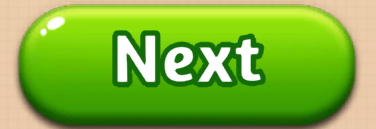
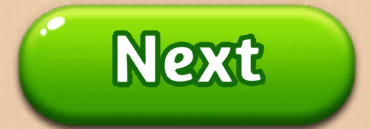
Added feature to have a controlled and accurate transition to the next level.

Changed region(s): [[0.2965, 0.2171, 0.7412, 0.6822], [0.8005, 0.031, 0.9784, 1.0], [0.0889, 0.124, 0.1779, 0.2791]]

diff --git a/word-cookies.py b/word-cookies.py
@@ -20,37 +20,39 @@ def main():
     print("Loading Assets...")
     templates = loadTemplates(letters)
     Dictionary = loadTexts(letters)
+    nextButton = cv2.imread('Assets/Next.png', 0)
     print("Elapsed time: ", time.time() - start_time, " seconds")
 
-    n = 0
-    while n < 5:
-        time.sleep(2)
-        start_time = time.time()
-        print("Grabbing Cookie Pan...")
-        cookiePan = loadCookiePan()
-        print("Elapsed time: ", time.time() - start_time, " seconds")
+    start_time = time.time()
+    print("Grabbing Cookie Pan...")
+    cookiePan = loadCookiePan()
+    print("Elapsed time: ", time.time() - start_time, " seconds")
 
-        start_time = time.time()
-        print("Finding Letters...")
-        lettersDict = findLetters(templates, letters, cookiePan, 0.8)
-        for letter, data in lettersDict.items():
-            print("{}: Vals: {}, Coords: {}".format(letter, data[0], data[1]))
-        print("Elapsed time: ", time.time() - start_time, " seconds")
+    start_time = time.time()
+    print("Finding Letters...")
+    lettersDict = findLetters(templates, letters, cookiePan, 0.8)
+    for letter, data in lettersDict.items():
+        print("{}: Vals: {}, Coords: {}".format(letter, data[0], data[1]))
+    print("Elapsed time: ", time.time() - start_time, " seconds")
 
-        start_time = time.time()
-        print("Finding Words...")
-        wordsFound = findWords(lettersDict, Dictionary)
-        print(wordsFound)
-        print("Elapsed time: ", time.time() - start_time, " seconds")
+    start_time = time.time()
+    print("Finding Words...")
+    wordsFound = findWords(lettersDict, Dictionary)
+    print(wordsFound)
+    print("Elapsed time: ", time.time() - start_time, " seconds")
 
-        start_time = time.time()
-        print("Drawing Words...")
-        drawWords(wordsFound, lettersDict)
-        print("Elapsed time: ", time.time() - start_time, " seconds")
-        
-        time.sleep(8)
-        pyautogui.click(720,1000)
+    start_time = time.time()
+    print("Drawing Known Words...")
+    drawWords(wordsFound, lettersDict)
+    print("Elapsed time: ", time.time() - start_time, " seconds")
 
+    start_time = time.time()
+    print("Waiting for End Screen...")
+    while nextRound(nextButton) == False:
+        time.sleep(0.1)
+    print("Elapsed time: ", time.time() - start_time, " seconds")
+
+    
 
 def loadCookiePan():
     # Grab a screenshot of the word-cookies screen.
@@ -252,6 +254,25 @@ def drawWords(words, lettersDictionary):
         pyautogui.mouseUp()
         time.sleep(0.1)
 
+
+def nextRound(nextButtonTemplate):
+    ended = False
+    height, width = nextButtonTemplate.shape
+    screen = ImageGrab.grab(bbox=(x1,y1,x2,y2))
+    screen.save('Assets/Next-Menu.png')
+
+    screenImg = cv2.imread('Assets/Next-Menu.png', 0)
+    result = cv2.matchTemplate(screenImg, nextButtonTemplate, cv2.TM_CCOEFF_NORMED)
+    _, max_val, _, max_loc = cv2.minMaxLoc(result)
+    max_loc = (max_loc[0] + width/2, max_loc[1] + height/2)
+
+    thr = 0.82
+    if max_val > thr:
+        ended = True
+        pyautogui.click(max_loc)
+        print(max_loc)
+    
+    return ended
 
 if __name__ == "__main__":
     main()
